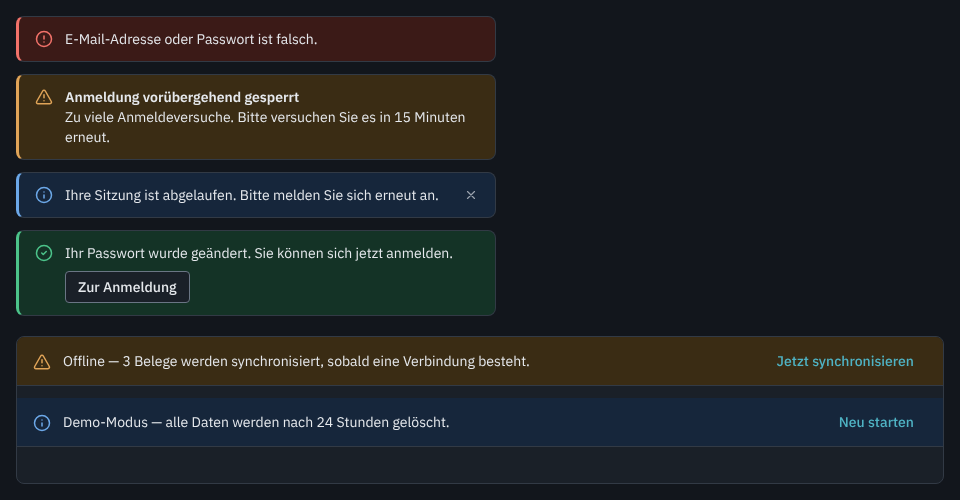
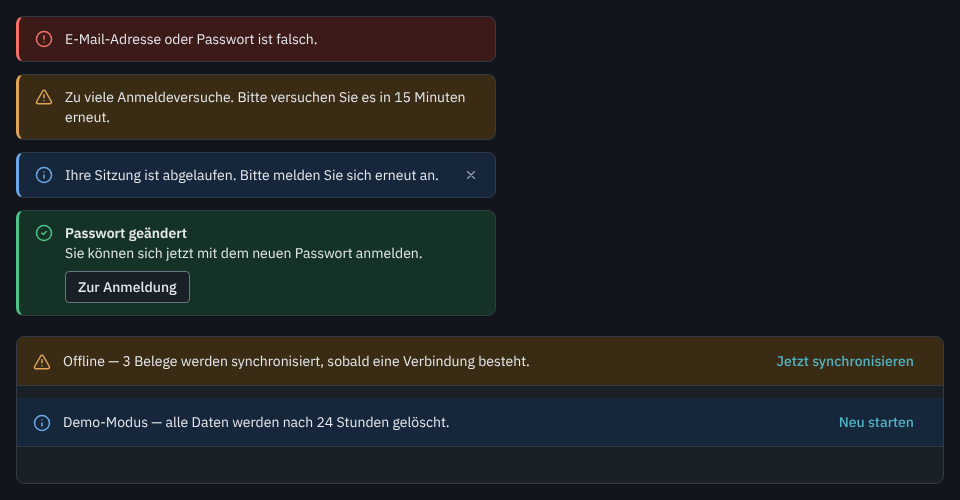
docs(design): align Alert preview with throttled key
The throttling alert in the preview has no title (one key
errors.auth.throttled, ADR-0010, 9a7e811); the title is shown on the
success example ("Passwort geändert"). Alert.html, Alert.png and
Alert-dark.png updated by the owner.

Changed region(s): [[0.0, 0.18, 0.5312, 0.54]]

diff --git a/docs/design/components/Alert.html b/docs/design/components/Alert.html
@@ -1,3 +1,3 @@
 <!doctype html><html lang="de"><head><meta charset="utf-8"><title>Kontur · Alert</title><link rel="stylesheet" href="../tokens.css"><link rel="stylesheet" href="../components.css"><style>body{margin:0;padding:16px;background:var(--bg-page)}</style></head><body class="k-body">
-<div style="display:flex;flex-direction:column;gap:12px;max-width:480px"><div class="k-alert k-alert--error" role="alert"><svg class="k-ico" viewBox="0 0 24 24" fill="none" stroke="currentColor" stroke-width="2" stroke-linecap="round" stroke-linejoin="round" width="18" height="18" aria-hidden="true"><circle cx="12" cy="12" r="10"/><path d="M12 8v4M12 16h.01"/></svg><div class="k-alert-body"><span>E-Mail-Adresse oder Passwort ist falsch.</span></div></div><div class="k-alert k-alert--warning" role="alert"><svg class="k-ico" viewBox="0 0 24 24" fill="none" stroke="currentColor" stroke-width="2" stroke-linecap="round" stroke-linejoin="round" width="18" height="18" aria-hidden="true"><path d="m21.73 18-8-14a2 2 0 0 0-3.48 0l-8 14A2 2 0 0 0 4 21h16a2 2 0 0 0 1.73-3"/><path d="M12 9v4M12 17h.01"/></svg><div class="k-alert-body"><span class="k-alert-title">Anmeldung vorübergehend gesperrt</span><span>Zu viele Anmeldeversuche. Bitte versuchen Sie es in 15 Minuten erneut.</span></div></div><div class="k-alert"><svg class="k-ico" viewBox="0 0 24 24" fill="none" stroke="currentColor" stroke-width="2" stroke-linecap="round" stroke-linejoin="round" width="18" height="18" aria-hidden="true"><circle cx="12" cy="12" r="10"/><path d="M12 16v-4M12 8h.01"/></svg><div class="k-alert-body"><span>Ihre Sitzung ist abgelaufen. Bitte melden Sie sich erneut an.</span></div><button class="k-icon-btn" aria-label="Schließen"><svg class="" viewBox="0 0 24 24" fill="none" stroke="currentColor" stroke-width="2" stroke-linecap="round" stroke-linejoin="round" width="14" height="14" aria-hidden="true"><path d="M18 6 6 18M6 6l12 12"/></svg></button></div><div class="k-alert k-alert--success" role="status"><svg class="k-ico" viewBox="0 0 24 24" fill="none" stroke="currentColor" stroke-width="2" stroke-linecap="round" stroke-linejoin="round" width="18" height="18" aria-hidden="true"><circle cx="12" cy="12" r="10"/><path d="m9 12 2 2 4-4"/></svg><div class="k-alert-body"><span>Ihr Passwort wurde geändert. Sie können sich jetzt anmelden.</span><div class="k-alert-actions"><button class="k-btn k-btn--secondary k-btn--sm">Zur Anmeldung</button></div></div></div></div><div style="display:flex;flex-direction:column;gap:12px;margin-top:20px;border:1px solid var(--border-subtle);border-radius:var(--radius-md);overflow:hidden;background:var(--bg-surface)"><div class="k-alert k-alert--warning k-alert--banner" role="alert"><svg class="k-ico" viewBox="0 0 24 24" fill="none" stroke="currentColor" stroke-width="2" stroke-linecap="round" stroke-linejoin="round" width="18" height="18" aria-hidden="true"><path d="m21.73 18-8-14a2 2 0 0 0-3.48 0l-8 14A2 2 0 0 0 4 21h16a2 2 0 0 0 1.73-3"/><path d="M12 9v4M12 17h.01"/></svg><div class="k-alert-body"><span>Offline — 3 Belege werden synchronisiert, sobald eine Verbindung besteht.</span><div class="k-alert-actions"><button class="k-btn k-btn--ghost k-btn--sm">Jetzt synchronisieren</button></div></div></div><div class="k-alert k-alert--banner"><svg class="k-ico" viewBox="0 0 24 24" fill="none" stroke="currentColor" stroke-width="2" stroke-linecap="round" stroke-linejoin="round" width="18" height="18" aria-hidden="true"><circle cx="12" cy="12" r="10"/><path d="M12 16v-4M12 8h.01"/></svg><div class="k-alert-body"><span>Demo-Modus — alle Daten werden nach 24 Stunden gelöscht.</span><div class="k-alert-actions"><button class="k-btn k-btn--ghost k-btn--sm">Neu starten</button></div></div></div><div style="height:24px"></div></div>
+<div style="display:flex;flex-direction:column;gap:12px;max-width:480px"><div class="k-alert k-alert--error" role="alert"><svg class="k-ico" viewBox="0 0 24 24" fill="none" stroke="currentColor" stroke-width="2" stroke-linecap="round" stroke-linejoin="round" width="18" height="18" aria-hidden="true"><circle cx="12" cy="12" r="10"/><path d="M12 8v4M12 16h.01"/></svg><div class="k-alert-body"><span>E-Mail-Adresse oder Passwort ist falsch.</span></div></div><div class="k-alert k-alert--warning" role="alert"><svg class="k-ico" viewBox="0 0 24 24" fill="none" stroke="currentColor" stroke-width="2" stroke-linecap="round" stroke-linejoin="round" width="18" height="18" aria-hidden="true"><path d="m21.73 18-8-14a2 2 0 0 0-3.48 0l-8 14A2 2 0 0 0 4 21h16a2 2 0 0 0 1.73-3"/><path d="M12 9v4M12 17h.01"/></svg><div class="k-alert-body"><span>Zu viele Anmeldeversuche. Bitte versuchen Sie es in 15 Minuten erneut.</span></div></div><div class="k-alert"><svg class="k-ico" viewBox="0 0 24 24" fill="none" stroke="currentColor" stroke-width="2" stroke-linecap="round" stroke-linejoin="round" width="18" height="18" aria-hidden="true"><circle cx="12" cy="12" r="10"/><path d="M12 16v-4M12 8h.01"/></svg><div class="k-alert-body"><span>Ihre Sitzung ist abgelaufen. Bitte melden Sie sich erneut an.</span></div><button class="k-icon-btn" aria-label="Schließen"><svg class="" viewBox="0 0 24 24" fill="none" stroke="currentColor" stroke-width="2" stroke-linecap="round" stroke-linejoin="round" width="14" height="14" aria-hidden="true"><path d="M18 6 6 18M6 6l12 12"/></svg></button></div><div class="k-alert k-alert--success" role="status"><svg class="k-ico" viewBox="0 0 24 24" fill="none" stroke="currentColor" stroke-width="2" stroke-linecap="round" stroke-linejoin="round" width="18" height="18" aria-hidden="true"><circle cx="12" cy="12" r="10"/><path d="m9 12 2 2 4-4"/></svg><div class="k-alert-body"><span class="k-alert-title">Passwort geändert</span><span>Sie können sich jetzt mit dem neuen Passwort anmelden.</span><div class="k-alert-actions"><button class="k-btn k-btn--secondary k-btn--sm">Zur Anmeldung</button></div></div></div></div><div style="display:flex;flex-direction:column;gap:12px;margin-top:20px;border:1px solid var(--border-subtle);border-radius:var(--radius-md);overflow:hidden;background:var(--bg-surface)"><div class="k-alert k-alert--warning k-alert--banner" role="alert"><svg class="k-ico" viewBox="0 0 24 24" fill="none" stroke="currentColor" stroke-width="2" stroke-linecap="round" stroke-linejoin="round" width="18" height="18" aria-hidden="true"><path d="m21.73 18-8-14a2 2 0 0 0-3.48 0l-8 14A2 2 0 0 0 4 21h16a2 2 0 0 0 1.73-3"/><path d="M12 9v4M12 17h.01"/></svg><div class="k-alert-body"><span>Offline — 3 Belege werden synchronisiert, sobald eine Verbindung besteht.</span><div class="k-alert-actions"><button class="k-btn k-btn--ghost k-btn--sm">Jetzt synchronisieren</button></div></div></div><div class="k-alert k-alert--banner"><svg class="k-ico" viewBox="0 0 24 24" fill="none" stroke="currentColor" stroke-width="2" stroke-linecap="round" stroke-linejoin="round" width="18" height="18" aria-hidden="true"><circle cx="12" cy="12" r="10"/><path d="M12 16v-4M12 8h.01"/></svg><div class="k-alert-body"><span>Demo-Modus — alle Daten werden nach 24 Stunden gelöscht.</span><div class="k-alert-actions"><button class="k-btn k-btn--ghost k-btn--sm">Neu starten</button></div></div></div><div style="height:24px"></div></div>
 </body></html>
